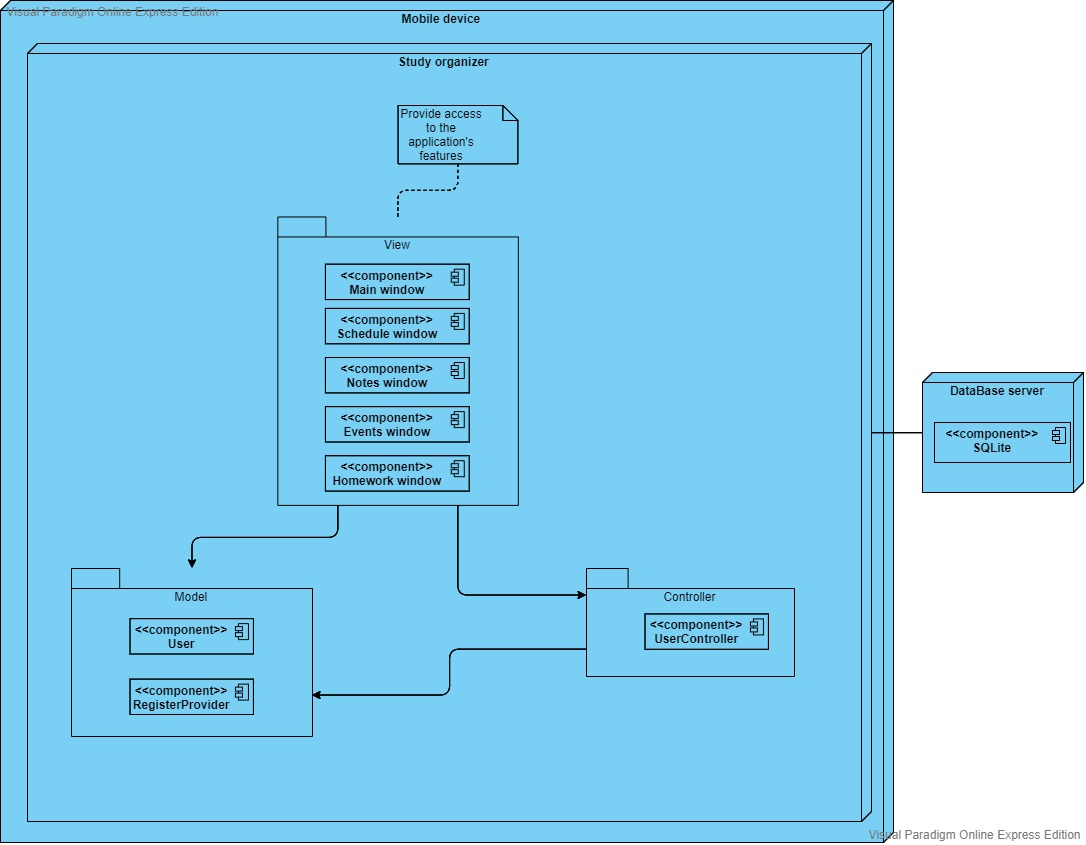
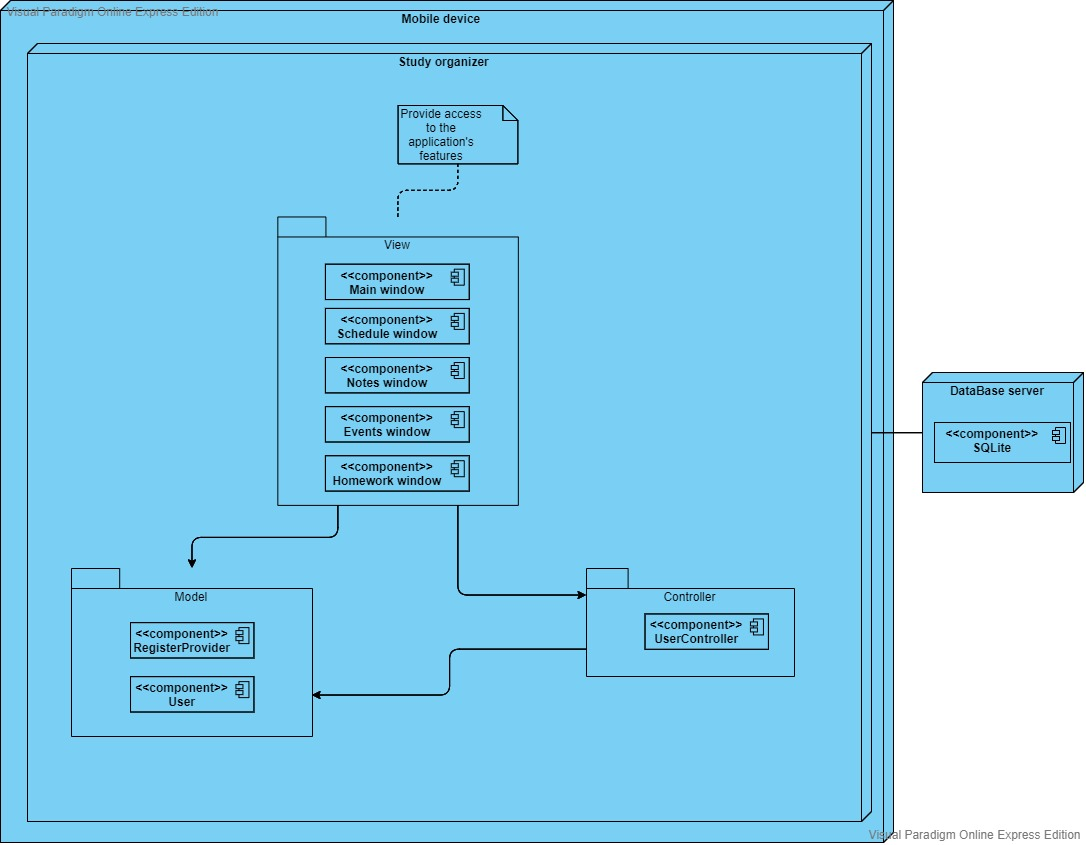
fix diagram

Changed region(s): [[0.1215, 0.7077, 0.2431, 0.8615]]

diff --git a/docs/System_design/README.md b/docs/System_design/README.md
@@ -7,4 +7,4 @@
 3. [Диаграммы последовательностей](https://github.com/BrushkouMatvey/Study-Organizer/tree/master/docs/System_design/Sequence)      
 4. [Диаграммы состояний](https://github.com/BrushkouMatvey/Study-Organizer/tree/master/docs/System_design/State)
 5. [Диаграмма классов](https://github.com/BrushkouMatvey/Study-Organizer/tree/master/docs/System_design/ClassDiagram)
-6. [Диаграммы развёртывания](https://github.com/BrushkouMatvey/Study-Organizer/tree/master/docs/System_design/Deployment)     
+6. [Диаграмма компонентов и развёртывания](https://github.com/BrushkouMatvey/Study-Organizer/tree/master/docs/System_design/Deployment)     
